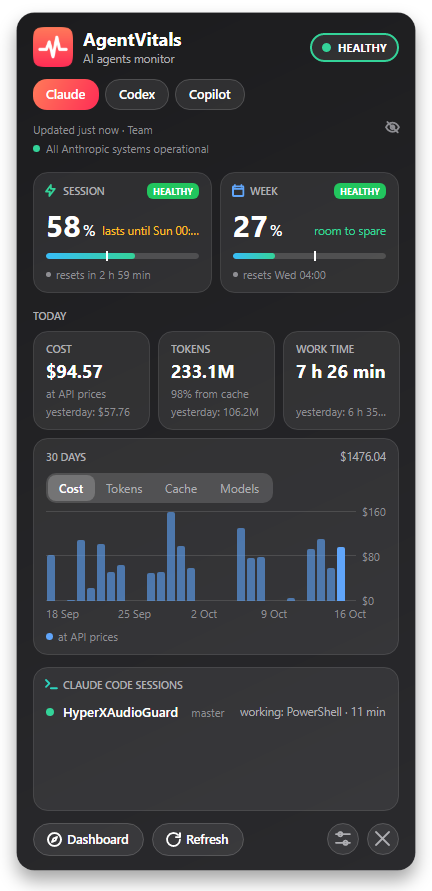
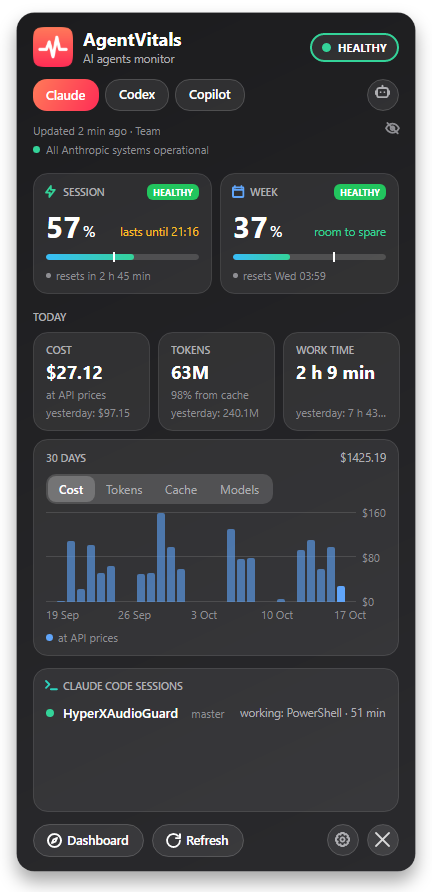
Describe accounts and the Agents window, and make it 1.4.0

diff --git a/README.md b/README.md
@@ -29,8 +29,8 @@ and [claude-status-bar](https://github.com/m1ckc3s/claude-status-bar), which do 
 2. Start it. A pulse icon appears in the tray. Windows 10 may put it into the hidden area — drag it
    onto the taskbar once.
 3. Every agent you are signed in to shows its quotas right away, each on its own tab — see
-   [Agents](#agents). To see live sessions, open Settings → *Live sessions* → **Connect** on the
-   Claude Code or Codex row.
+   [Agents](#agents). To see live sessions, open the [Agents window](#agents-window), pick Claude or
+   Codex and press **Connect** under *Live sessions*.
 
 Hover the icon for a quick card, click it for the full window, right-click for the menu. The window
 stays open while you work in other windows: close it with ✕, another click on the icon or Esc.
@@ -45,6 +45,7 @@ scrolls.
 | Tray icon | A pulse line coloured by the limit closest to running out; it beats while an agent works, and a blue dot blinks while one waits for you |
 | Alerts | Toasts at 75% and 90% of a limit (adjustable from 50% to 95%), when a limit won't last until its reset at this pace, when a critical limit resets, when a long turn ends, when an agent asks for permission and when an agent's service status changes; two soft sounds you can turn on — for permission and for *critical* |
 | Live sessions | Every open Claude Code and Codex session, on its agent's tab, with its folder, git branch, state and turn timer → [more](#live-sessions) |
+| Accounts | Every account you have signed in to stays on its agent's tab with its last numbers, and a toast says when a remembered one is available again → [more](#accounts) |
 | Usage statistics | For Claude and Codex: today's cost, tokens and working time next to yesterday's; a 30-day chart of cost, tokens, cache or models → [more](#usage-statistics) |
 | Service status | Each tab shows its agent's: status.claude.com for Claude, the Codex group of status.openai.com for Codex (the whole OpenAI page only if that group disappears), the Copilot component of githubstatus.com for Copilot, status.cursor.com for Cursor; a toast when one changes |
 | After sleep | Asks again as soon as the PC wakes; a window whose reset time has passed shows 0% instead of stale numbers |
@@ -55,10 +56,10 @@ scrolls.
 
 ## Settings
 
-The sliders button at the bottom of the window, or *Settings* in the right-click menu, opens
+The gear button at the bottom of the window, or *Settings* in the right-click menu, opens
 settings: language, theme, how often to check quotas, the *important* and *critical* levels,
-session toasts, their two sounds, start with Windows, updates and the Claude Code and Codex hooks
-for live sessions.
+session toasts, their two sounds, start with Windows and updates. Which agents to watch, the order
+of their tabs, live sessions and account names are in the [Agents window](#agents-window).
 
 | Light | Dark |
 |---|---|
@@ -79,6 +80,57 @@ confirmed it once: Copilot Chat comes with VS Code, so its folder alone says not
 
 If Claude Code keeps its sign-in in Windows Credential Manager, AgentVitals reads it from there too and
 takes whichever of the two lasts longer (not verified).
+
+## Accounts
+
+AgentVitals remembers every account of an agent you have signed in to — a Claude user in an
+organization, a ChatGPT account for Codex, a GitHub login for Copilot, a Cursor user. When a session
+runs out and you switch with `/login`, the previous account stays on the tab with its last numbers,
+and you can see when it frees up.
+
+| Light | Dark |
+|---|---|
+| <img src="docs/accounts-light.png" width="360" alt="Accounts card, light theme"> | <img src="docs/accounts-dark.png" width="360" alt="Accounts card, dark theme"> |
+
+- **The account in use** is the one whose sign-in the agent holds now. Only it gets fresh numbers,
+  colours the tray icon and the header and gets quota toasts. After `/login` AgentVitals sees the new
+  account within seconds, marks it *updating the numbers…* and asks the server at once; the wait after
+  a 429 belongs to each account, so the previous one does not hold the new one back.
+- **The Accounts card** appears under the quota cards once an agent has two accounts or more: the
+  account in use first, the others in the order they appeared, each with its plan, the age of its
+  numbers and a bar per limit. Three are visible, the rest scroll inside the card.
+- **A click on an account** shows it in the cards above, with a note that these are the last numbers
+  AgentVitals saw. Each time the window opens it shows the account in use again.
+- **The badge** says *in use*, *session — in 1 h 10 min* or *week — from Tue 09:00* while a limit of a
+  remembered account is used up (the one that resets last), *available again* once all of them have
+  reset since, and *free* otherwise. A toast says when a remembered account is available again; a
+  click opens its tab with it shown.
+- **Names.** An account is called by its email (for Copilot, the GitHub login); two accounts with one
+  email get the plan added. Under the eye they are *Account 1*, *Account 2*. Your own names are set
+  in the [Agents window](#agents-window) and stay visible under the eye.
+- Usage statistics and live sessions are shared by all accounts of an agent: the agents' logs do not
+  say which account did the work.
+
+AgentVitals never switches accounts itself and keeps no tokens: it only remembers the plan, the
+email, the percentages and the account's id from the agent's own files.
+
+## Agents window
+
+The robot button at the end of the tab row, or *Agents…* in the right-click menu, opens a normal
+window — it is on the taskbar, moves and stays open.
+
+| Light | Dark |
+|---|---|
+| <img src="docs/agents-light.png" width="360" alt="Agents window, light theme"> | <img src="docs/agents-dark.png" width="360" alt="Agents window, dark theme"> |
+
+- **The list** shows the agents in the order of their tabs: the number is the tab's place, which
+  is also its Ctrl+N. **▲ Up** and **▼ Down** move the selected agent. Agents that are not found are
+  grey at the bottom.
+- **The switch** turns an agent off: it is not asked, has no tab, sends no toasts and does not colour
+  the icon; its hooks stay in place. Turning it back on brings everything back at once.
+- **On the right** are the selected agent's details: its state, [live sessions](#live-sessions) with
+  **Connect** and **Disconnect**, and its accounts — a name field (the email is in its tooltip, hidden
+  by the eye), the plan, the last numbers and **Forget** for a remembered account.
 
 ## Quotas and alerts
 
@@ -130,7 +182,7 @@ restarting AgentVitals no longer spends the rate limit and gets refused straight
 
 ## Live sessions
 
-Settings → *Live sessions* → **Connect** on the Claude Code row adds AgentVitals hooks to
+The Agents window → Claude → *Live sessions* → **Connect** adds AgentVitals hooks to
 `~/.claude/settings.json`.
 Each hook runs `AgentVitals.exe hook` in the background, which writes one small state file per
 session into `sessions\` next to the exe. **Disconnect** removes only AgentVitals' entries.
@@ -158,9 +210,9 @@ session into `sessions\` next to the exe. **Disconnect** removes only AgentVital
   you restart them.
 - AgentVitals rewrites `settings.json` as plain JSON, so comments in it are not kept. Before every
   change the file is copied to `settings.json.agentvitals.bak`, comments included.
-- If you move the exe, settings say so — reconnect. Before deleting the exe, press **Disconnect**:
+- If you move the exe, the Agents window says so — reconnect. Before deleting the exe, press **Disconnect**:
   otherwise Claude Code keeps calling a program that is no longer there.
-- **Codex.** **Connect** on the Codex row writes `~/.codex/hooks.json` (or `hooks.json` under
+- **Codex.** **Connect** on the Codex page writes `~/.codex/hooks.json` (or `hooks.json` under
   `$CODEX_HOME`); each hook runs `"AgentVitals.exe" hook codex`. Codex runs a new or changed hook
   only after you trust it: open `/hooks` in Codex once after connecting, and again after moving the
   exe. Esc in Codex fires its own `Interrupt` hook, so the session goes idle at once. Codex sessions

diff --git a/CONTEXT.md b/CONTEXT.md
@@ -8,15 +8,31 @@ A tray companion for people who code with AI agents: how much of each agent's qu
 
 **Agent**:
 A coding assistant with its own CLI and sign-in whose quotas are watched: Claude Code, Codex, Gemini CLI, GitHub Copilot or Cursor. Gemini, Copilot and Cursor have no statistics and no live sessions.
-_Avoid_: tool, client, account, provider
+_Avoid_: tool, client, provider
 
 **Installed**:
 An agent is installed when there are signs of it on the computer — usually its sign-in file; installed agents are asked.
 _Avoid_: available, enabled
 
 **Visible**:
-An installed agent that has a tab: at once for most agents, but Copilot only after GitHub has confirmed it once, since its signs are on almost every computer with VS Code.
+An installed agent that has a tab: not switched off, and at once for most agents, but Copilot only after GitHub has confirmed it once, since its signs are on almost every computer with VS Code.
 _Avoid_: shown, enabled
+
+**Switched-off agent**:
+An installed agent the person chose not to watch in the Agents window: it is not asked, has no tab, sends no toasts and does not colour the icon; its hooks stay in place.
+_Avoid_: hidden agent, disabled agent
+
+**Account**:
+One sign-in to an agent: for Claude a user in an organization, for Codex a ChatGPT account, for Copilot a GitHub login, for Cursor a Cursor user. An agent that does not tell who signed in has one unnamed account.
+_Avoid_: profile, user, login
+
+**Account in use**:
+The account whose sign-in the agent holds now; only it gets fresh data, and only it colours the icon and triggers quota toasts.
+_Avoid_: active account, current account
+
+**Remembered account**:
+An account the person signed in to before; it keeps the last data seen for it, and a toast tells when it is available again — when its last exhausted limiting window has reset.
+_Avoid_: saved account, inactive account
 
 **Plan**:
 What the person pays the agent's maker for, such as Pro or Max.
